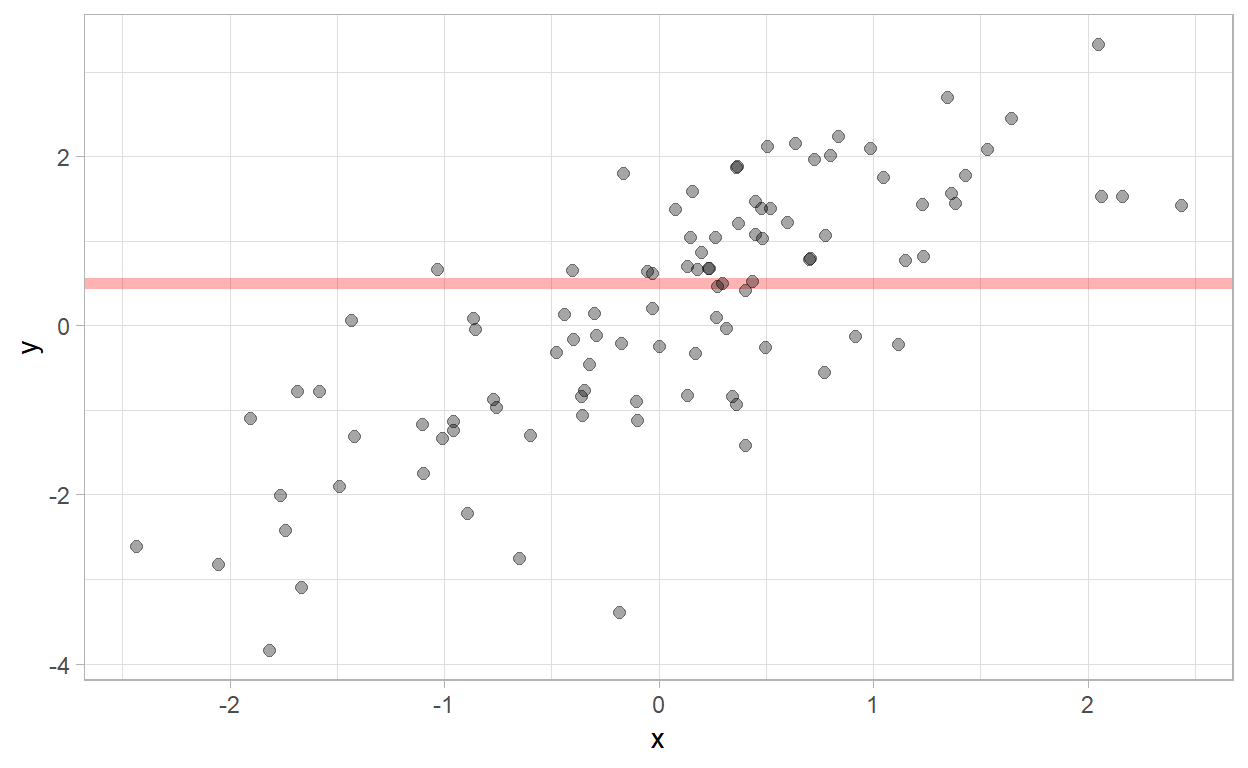
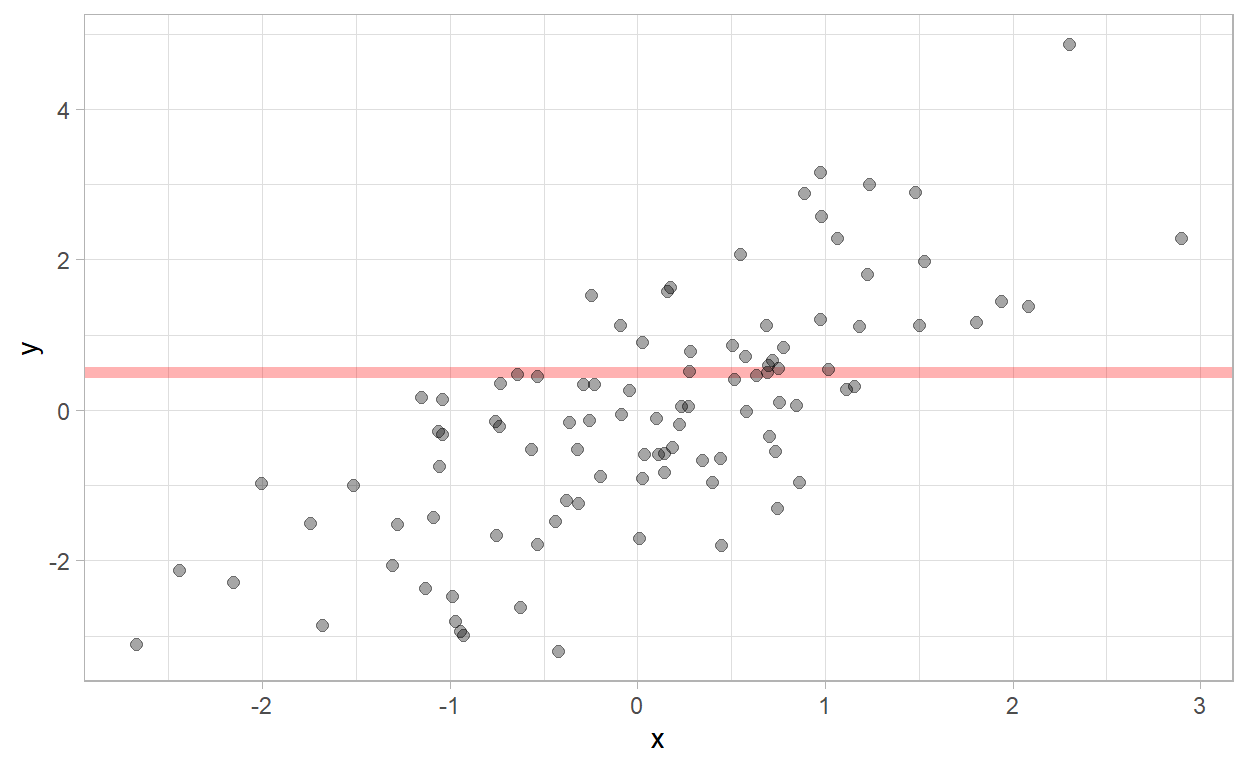
remove additional seed

diff --git a/posts/2019/2019-09-18-compared-to-what/index.html b/posts/2019/2019-09-18-compared-to-what/index.html
@@ -26,8 +26,8 @@
 <link rel="canonical" href="https://graphicsprinciples.github.io/posts/2019/2019-09-18-compared-to-what/"/>
 
 <!--  https://schema.org/Article -->
-<meta property="article:published" itemprop="datePublished" content="2019-09-19"/>
-<meta property="article:created" itemprop="dateCreated" content="2019-09-19"/>
+<meta property="article:published" itemprop="datePublished" content="2020-01-20"/>
+<meta property="article:created" itemprop="dateCreated" content="2020-01-20"/>
 <meta name="article:author" content="Graphics principles"/>
 
 <!--  https://developers.facebook.com/docs/sharing/webmasters#markup -->
@@ -56,7 +56,7 @@
   <!--radix_placeholder_rmarkdown_metadata-->
 
 <script type="text/json" id="radix-rmarkdown-metadata">
-{"type":"list","attributes":{"names":{"type":"character","attributes":{},"value":["title","description","author","date","categories","draft","bibliography","output","canonical_url"]}},"value":[{"type":"character","attributes":{},"value":["Compared to what?"]},{"type":"character","attributes":{},"value":["\"At the heart of quantitative reasoning is a single question: Compared to what?\" - Edward Tufte"]},{"type":"list","attributes":{},"value":[{"type":"list","attributes":{"names":{"type":"character","attributes":{},"value":["name","url"]}},"value":[{"type":"character","attributes":{},"value":["Graphics principles"]},{"type":"character","attributes":{},"value":["https://graphicsprinciples.github.io/"]}]}]},{"type":"character","attributes":{},"value":["2019-09-19"]},{"type":"character","attributes":{},"value":["comparisons","scatter plot","annotations","Rcode","examples","layering","visual anchors"]},{"type":"logical","attributes":{},"value":[false]},{"type":"character","attributes":{},"value":["lit.bib"]},{"type":"list","attributes":{"names":{"type":"character","attributes":{},"value":["radix::radix_article"]}},"value":[{"type":"list","attributes":{"names":{"type":"character","attributes":{},"value":["self_contained"]}},"value":[{"type":"logical","attributes":{},"value":[false]}]}]},{"type":"character","attributes":{},"value":["https://graphicsprinciples.github.io/posts/2019/2019-09-18-compared-to-what/"]}]}
+{"type":"list","attributes":{"names":{"type":"character","attributes":{},"value":["title","description","author","date","categories","draft","bibliography","output","canonical_url"]}},"value":[{"type":"character","attributes":{},"value":["Compared to what?"]},{"type":"character","attributes":{},"value":["\"At the heart of quantitative reasoning is a single question: Compared to what?\" - Edward Tufte"]},{"type":"list","attributes":{},"value":[{"type":"list","attributes":{"names":{"type":"character","attributes":{},"value":["name","url"]}},"value":[{"type":"character","attributes":{},"value":["Graphics principles"]},{"type":"character","attributes":{},"value":["https://graphicsprinciples.github.io/"]}]}]},{"type":"character","attributes":{},"value":["2020-01-20"]},{"type":"character","attributes":{},"value":["comparisons","scatter plot","annotations","Rcode","examples","layering","visual anchors"]},{"type":"logical","attributes":{},"value":[false]},{"type":"character","attributes":{},"value":["lit.bib"]},{"type":"list","attributes":{"names":{"type":"character","attributes":{},"value":["radix::radix_article"]}},"value":[{"type":"list","attributes":{"names":{"type":"character","attributes":{},"value":["self_contained"]}},"value":[{"type":"logical","attributes":{},"value":[false]}]}]},{"type":"character","attributes":{},"value":["https://graphicsprinciples.github.io/posts/2019/2019-09-18-compared-to-what/"]}]}
 </script>
 <!--/radix_placeholder_rmarkdown_metadata-->
   
@@ -1291,7 +1291,7 @@ document.addEventListener('DOMContentLoaded', function() {
 <!--radix_placeholder_front_matter-->
 
 <script id="distill-front-matter" type="text/json">
-{"title":"Compared to what?","description":"\"At the heart of quantitative reasoning is a single question: Compared to what?\" - Edward Tufte","authors":[{"author":"Graphics principles","authorURL":"https://graphicsprinciples.github.io/","affiliation":"&nbsp;","affiliationURL":"#"}],"publishedDate":"2019-09-19T00:00:00.000+02:00","citationText":"principles, 2019"}
+{"title":"Compared to what?","description":"\"At the heart of quantitative reasoning is a single question: Compared to what?\" - Edward Tufte","authors":[{"author":"Graphics principles","authorURL":"https://graphicsprinciples.github.io/","affiliation":"&nbsp;","affiliationURL":"#"}],"publishedDate":"2020-01-20T00:00:00.000+01:00","citationText":"principles, 2020"}
 </script>
 
 <!--/radix_placeholder_front_matter-->
@@ -1326,7 +1326,7 @@ document.addEventListener('DOMContentLoaded', function() {
 <div class="d-byline">
   Graphics principles <a href="https://graphicsprinciples.github.io/" class="uri">https://graphicsprinciples.github.io/</a> 
   
-<br/>2019-09-19
+<br/>2020-01-20
 </div>
 
 <div class="d-article">
@@ -1349,7 +1349,6 @@ set.seed(1972)</code></pre>
 <div class="layout-chunk" data-layout="l-body">
 <pre class="r"><code>
 # generate data
-set.seed(1971)
 N &lt;- 100
 
 plotdata &lt;- tibble(x = rnorm(N, 0, 1),
@@ -1485,7 +1484,7 @@ sessionInfo()</code></pre>
 <pre><code>
 R version 3.5.3 (2019-03-11)
 Platform: x86_64-w64-mingw32/x64 (64-bit)
-Running under: Windows 10 x64 (build 16299)
+Running under: Windows 10 x64 (build 17763)
 
 Matrix products: default
 
@@ -1501,28 +1500,30 @@ attached base packages:
 [7] base     
 
 other attached packages:
- [1] gridExtra_2.3   forcats_0.4.0   stringr_1.4.0   dplyr_0.8.0.1  
- [5] purrr_0.3.2     readr_1.3.1     tidyr_0.8.3     tibble_2.1.1   
- [9] ggplot2_3.1.1   tidyverse_1.2.1
+ [1] gridExtra_2.3   forcats_0.4.0   stringr_1.4.0   dplyr_0.8.3    
+ [5] purrr_0.3.3     readr_1.3.1     tidyr_1.0.0     tibble_2.1.3   
+ [9] ggplot2_3.2.1   tidyverse_1.3.0
 
 loaded via a namespace (and not attached):
  [1] tidyselect_0.2.5 xfun_0.6         splines_3.5.3   
- [4] haven_2.1.0      radix_0.6        lattice_0.20-38 
- [7] colorspace_1.4-1 generics_0.0.2   htmltools_0.3.6 
-[10] yaml_2.2.0       rlang_0.4.0      pillar_1.3.1    
-[13] glue_1.3.1       withr_2.1.2      modelr_0.1.4    
-[16] readxl_1.3.1     plyr_1.8.4       munsell_0.5.0   
-[19] gtable_0.3.0     cellranger_1.1.0 rvest_0.3.2     
-[22] evaluate_0.13    labeling_0.3     knitr_1.22      
-[25] highr_0.8        broom_0.5.2      Rcpp_1.0.1      
-[28] scales_1.0.0     backports_1.1.3  jsonlite_1.6    
-[31] hms_0.4.2        digest_0.6.20    stringi_1.4.3   
-[34] grid_3.5.3       cli_1.1.0        tools_3.5.3     
-[37] magrittr_1.5     lazyeval_0.2.2   crayon_1.3.4    
-[40] pkgconfig_2.0.2  xml2_1.2.0       lubridate_1.7.4 
-[43] assertthat_0.2.1 rmarkdown_1.12   httr_1.4.0      
-[46] rstudioapi_0.10  R6_2.4.0         nlme_3.1-137    
-[49] compiler_3.5.3  </code></pre>
+ [4] haven_2.2.0      radix_0.6        lattice_0.20-38 
+ [7] colorspace_1.4-1 vctrs_0.2.1      generics_0.0.2  
+[10] htmltools_0.3.6  yaml_2.2.0       rlang_0.4.2     
+[13] pillar_1.4.2     withr_2.1.2      glue_1.3.1      
+[16] DBI_1.0.0        dbplyr_1.4.2     modelr_0.1.5    
+[19] readxl_1.3.1     lifecycle_0.1.0  munsell_0.5.0   
+[22] gtable_0.3.0     cellranger_1.1.0 rvest_0.3.5     
+[25] evaluate_0.13    labeling_0.3     knitr_1.26      
+[28] fansi_0.4.0      highr_0.8        broom_0.5.2     
+[31] Rcpp_1.0.1       backports_1.1.3  scales_1.0.0    
+[34] jsonlite_1.6     fs_1.3.1         hms_0.5.2       
+[37] digest_0.6.20    stringi_1.4.3    grid_3.5.3      
+[40] cli_2.0.0        tools_3.5.3      magrittr_1.5    
+[43] lazyeval_0.2.2   crayon_1.3.4     pkgconfig_2.0.2 
+[46] zeallot_0.1.0    xml2_1.2.2       reprex_0.3.0    
+[49] lubridate_1.7.4  rstudioapi_0.10  assertthat_0.2.1
+[52] rmarkdown_1.12   httr_1.4.1       R6_2.4.0        
+[55] nlme_3.1-137     compiler_3.5.3  </code></pre>
 </div>
 <h2 id="corrections-or-questions" class="appendix">Corrections or questions</h2>
 <p>If you see mistakes, want to suggest changes or even ask us a question, please <a href="https://github.com/GraphicsPrinciples/gallery/issues">create an issue</a> on the source repository.</p>

diff --git a/_posts/2019/2019-09-18-compared-to-what/2019-09-18-compared-to-what.html b/_posts/2019/2019-09-18-compared-to-what/2019-09-18-compared-to-what.html
@@ -25,8 +25,8 @@
   
   
   <!--  https://schema.org/Article -->
-  <meta property="article:published" itemprop="datePublished" content="2019-09-19"/>
-  <meta property="article:created" itemprop="dateCreated" content="2019-09-19"/>
+  <meta property="article:published" itemprop="datePublished" content="2020-01-20"/>
+  <meta property="article:created" itemprop="dateCreated" content="2020-01-20"/>
   <meta name="article:author" content="Graphics principles"/>
   
   <!--  https://developers.facebook.com/docs/sharing/webmasters#markup -->
@@ -46,7 +46,7 @@
   <!--radix_placeholder_rmarkdown_metadata-->
   
   <script type="text/json" id="radix-rmarkdown-metadata">
-  {"type":"list","attributes":{"names":{"type":"character","attributes":{},"value":["title","description","author","date","categories","draft","bibliography","output"]}},"value":[{"type":"character","attributes":{},"value":["Compared to what?"]},{"type":"character","attributes":{},"value":["\"At the heart of quantitative reasoning is a single question: Compared to what?\" - Edward Tufte\n"]},{"type":"list","attributes":{},"value":[{"type":"list","attributes":{"names":{"type":"character","attributes":{},"value":["name","url"]}},"value":[{"type":"character","attributes":{},"value":["Graphics principles"]},{"type":"character","attributes":{},"value":["https://graphicsprinciples.github.io/"]}]}]},{"type":"character","attributes":{},"value":["2019-09-19"]},{"type":"character","attributes":{},"value":["comparisons","scatter plot","annotations","Rcode","examples","layering","visual anchors"]},{"type":"logical","attributes":{},"value":[false]},{"type":"character","attributes":{},"value":["lit.bib"]},{"type":"list","attributes":{"names":{"type":"character","attributes":{},"value":["radix::radix_article"]}},"value":[{"type":"list","attributes":{"names":{"type":"character","attributes":{},"value":["self_contained"]}},"value":[{"type":"logical","attributes":{},"value":[false]}]}]}]}
+  {"type":"list","attributes":{"names":{"type":"character","attributes":{},"value":["title","description","author","date","categories","draft","bibliography","output"]}},"value":[{"type":"character","attributes":{},"value":["Compared to what?"]},{"type":"character","attributes":{},"value":["\"At the heart of quantitative reasoning is a single question: Compared to what?\" - Edward Tufte\n"]},{"type":"list","attributes":{},"value":[{"type":"list","attributes":{"names":{"type":"character","attributes":{},"value":["name","url"]}},"value":[{"type":"character","attributes":{},"value":["Graphics principles"]},{"type":"character","attributes":{},"value":["https://graphicsprinciples.github.io/"]}]}]},{"type":"character","attributes":{},"value":["2020-01-20"]},{"type":"character","attributes":{},"value":["comparisons","scatter plot","annotations","Rcode","examples","layering","visual anchors"]},{"type":"logical","attributes":{},"value":[false]},{"type":"character","attributes":{},"value":["lit.bib"]},{"type":"list","attributes":{"names":{"type":"character","attributes":{},"value":["radix::radix_article"]}},"value":[{"type":"list","attributes":{"names":{"type":"character","attributes":{},"value":["self_contained"]}},"value":[{"type":"logical","attributes":{},"value":[false]}]}]}]}
   </script>
   <!--/radix_placeholder_rmarkdown_metadata-->
   
@@ -944,7 +944,7 @@
 <!--radix_placeholder_front_matter-->
 
 <script id="distill-front-matter" type="text/json">
-{"title":"Compared to what?","description":"\"At the heart of quantitative reasoning is a single question: Compared to what?\" - Edward Tufte","authors":[{"author":"Graphics principles","authorURL":"https://graphicsprinciples.github.io/","affiliation":"&nbsp;","affiliationURL":"#"}],"publishedDate":"2019-09-19T00:00:00.000+02:00","citationText":"principles, 2019"}
+{"title":"Compared to what?","description":"\"At the heart of quantitative reasoning is a single question: Compared to what?\" - Edward Tufte","authors":[{"author":"Graphics principles","authorURL":"https://graphicsprinciples.github.io/","affiliation":"&nbsp;","affiliationURL":"#"}],"publishedDate":"2020-01-20T00:00:00.000+01:00","citationText":"principles, 2020"}
 </script>
 
 <!--/radix_placeholder_front_matter-->
@@ -961,7 +961,7 @@
 <div class="d-byline">
   Graphics principles <a href="https://graphicsprinciples.github.io/" class="uri">https://graphicsprinciples.github.io/</a> 
   
-<br/>2019-09-19
+<br/>2020-01-20
 </div>
 
 <div class="d-article">
@@ -984,7 +984,6 @@ set.seed(1972)</code></pre>
 <div class="layout-chunk" data-layout="l-body">
 <pre class="r"><code>
 # generate data
-set.seed(1971)
 N &lt;- 100
 
 plotdata &lt;- tibble(x = rnorm(N, 0, 1),
@@ -1120,7 +1119,7 @@ sessionInfo()</code></pre>
 <pre><code>
 R version 3.5.3 (2019-03-11)
 Platform: x86_64-w64-mingw32/x64 (64-bit)
-Running under: Windows 10 x64 (build 16299)
+Running under: Windows 10 x64 (build 17763)
 
 Matrix products: default
 
@@ -1136,28 +1135,30 @@ attached base packages:
 [7] base     
 
 other attached packages:
- [1] gridExtra_2.3   forcats_0.4.0   stringr_1.4.0   dplyr_0.8.0.1  
- [5] purrr_0.3.2     readr_1.3.1     tidyr_0.8.3     tibble_2.1.1   
- [9] ggplot2_3.1.1   tidyverse_1.2.1
+ [1] gridExtra_2.3   forcats_0.4.0   stringr_1.4.0   dplyr_0.8.3    
+ [5] purrr_0.3.3     readr_1.3.1     tidyr_1.0.0     tibble_2.1.3   
+ [9] ggplot2_3.2.1   tidyverse_1.3.0
 
 loaded via a namespace (and not attached):
  [1] tidyselect_0.2.5 xfun_0.6         splines_3.5.3   
- [4] haven_2.1.0      radix_0.6        lattice_0.20-38 
- [7] colorspace_1.4-1 generics_0.0.2   htmltools_0.3.6 
-[10] yaml_2.2.0       rlang_0.4.0      pillar_1.3.1    
-[13] glue_1.3.1       withr_2.1.2      modelr_0.1.4    
-[16] readxl_1.3.1     plyr_1.8.4       munsell_0.5.0   
-[19] gtable_0.3.0     cellranger_1.1.0 rvest_0.3.2     
-[22] evaluate_0.13    labeling_0.3     knitr_1.22      
-[25] highr_0.8        broom_0.5.2      Rcpp_1.0.1      
-[28] scales_1.0.0     backports_1.1.3  jsonlite_1.6    
-[31] hms_0.4.2        digest_0.6.20    stringi_1.4.3   
-[34] grid_3.5.3       cli_1.1.0        tools_3.5.3     
-[37] magrittr_1.5     lazyeval_0.2.2   crayon_1.3.4    
-[40] pkgconfig_2.0.2  xml2_1.2.0       lubridate_1.7.4 
-[43] assertthat_0.2.1 rmarkdown_1.12   httr_1.4.0      
-[46] rstudioapi_0.10  R6_2.4.0         nlme_3.1-137    
-[49] compiler_3.5.3  </code></pre>
+ [4] haven_2.2.0      radix_0.6        lattice_0.20-38 
+ [7] colorspace_1.4-1 vctrs_0.2.1      generics_0.0.2  
+[10] htmltools_0.3.6  yaml_2.2.0       rlang_0.4.2     
+[13] pillar_1.4.2     withr_2.1.2      glue_1.3.1      
+[16] DBI_1.0.0        dbplyr_1.4.2     modelr_0.1.5    
+[19] readxl_1.3.1     lifecycle_0.1.0  munsell_0.5.0   
+[22] gtable_0.3.0     cellranger_1.1.0 rvest_0.3.5     
+[25] evaluate_0.13    labeling_0.3     knitr_1.26      
+[28] fansi_0.4.0      highr_0.8        broom_0.5.2     
+[31] Rcpp_1.0.1       backports_1.1.3  scales_1.0.0    
+[34] jsonlite_1.6     fs_1.3.1         hms_0.5.2       
+[37] digest_0.6.20    stringi_1.4.3    grid_3.5.3      
+[40] cli_2.0.0        tools_3.5.3      magrittr_1.5    
+[43] lazyeval_0.2.2   crayon_1.3.4     pkgconfig_2.0.2 
+[46] zeallot_0.1.0    xml2_1.2.2       reprex_0.3.0    
+[49] lubridate_1.7.4  rstudioapi_0.10  assertthat_0.2.1
+[52] rmarkdown_1.12   httr_1.4.1       R6_2.4.0        
+[55] nlme_3.1-137     compiler_3.5.3  </code></pre>
 </div>
 <h2 id="corrections-or-questions" class="appendix">Corrections or questions</h2>
 <p>If you see mistakes, want to suggest changes or even ask us a question, please <a href="https://github.com/GraphicsPrinciples/gallery/issues">create an issue</a> on the source repository.</p>

diff --git a/index.html b/index.html
@@ -1616,6 +1616,19 @@ function init_posts_list() {
 <div class="posts-container posts-with-sidebar posts-apply-limit l-screen-inset">
 <div class="posts-list">
 <h1 class="posts-list-caption">Graph gallery - thoughts on visual communication</h1>
+<a href="posts/2019/2019-09-18-compared-to-what/" class="post-preview">
+<script class="post-metadata" type="text/json">{"categories":["comparisons","scatter plot","annotations","Rcode","examples","layering","visual anchors"]}</script>
+<div class="metadata">
+<div class="publishedDate">Jan. 19, 2020</div>
+</div>
+<div class="thumbnail">
+<img data-src="posts/2019/2019-09-18-compared-to-what/2019-09-18-compared-to-what_files/figure-html5/unnamed-chunk-6-1.png"/>
+</div>
+<div class="description">
+<h2>Compared to what?</h2>
+<p>"At the heart of quantitative reasoning is a single question: Compared to what?" - Edward Tufte</p>
+</div>
+</a>
 <a href="posts/2019/2019-10-01-r-graph-gallery/" class="post-preview">
 <script class="post-metadata" type="text/json">{"categories":["principles","Rcode","example","python","d3"]}</script>
 <div class="metadata">
@@ -1666,19 +1679,6 @@ function init_posts_list() {
 <div class="description">
 <h2>How Humans See Data</h2>
 <p>John Rauser summarises the human visual system and how we decode visual information</p>
-</div>
-</a>
-<a href="posts/2019/2019-09-18-compared-to-what/" class="post-preview">
-<script class="post-metadata" type="text/json">{"categories":["comparisons","scatter plot","annotations","Rcode","examples","layering","visual anchors"]}</script>
-<div class="metadata">
-<div class="publishedDate">Sept. 19, 2019</div>
-</div>
-<div class="thumbnail">
-<img data-src="posts/2019/2019-09-18-compared-to-what/2019-09-18-compared-to-what_files/figure-html5/unnamed-chunk-6-1.png"/>
-</div>
-<div class="description">
-<h2>Compared to what?</h2>
-<p>"At the heart of quantitative reasoning is a single question: Compared to what?" - Edward Tufte</p>
 </div>
 </a>
 <a href="posts/2019/2019-09-10-clear-lines/" class="post-preview">
@@ -1774,7 +1774,7 @@ function init_posts_list() {
 <a href="#">More articles &raquo;</a>
 </div>
 </div>
-<!--/radix_placeholder_article_listing-->
+<!--/radix_placeholder_article_listing-->
 
 <div class="d-title">
 <h1>Graph gallery - thoughts on visual communication</h1>
